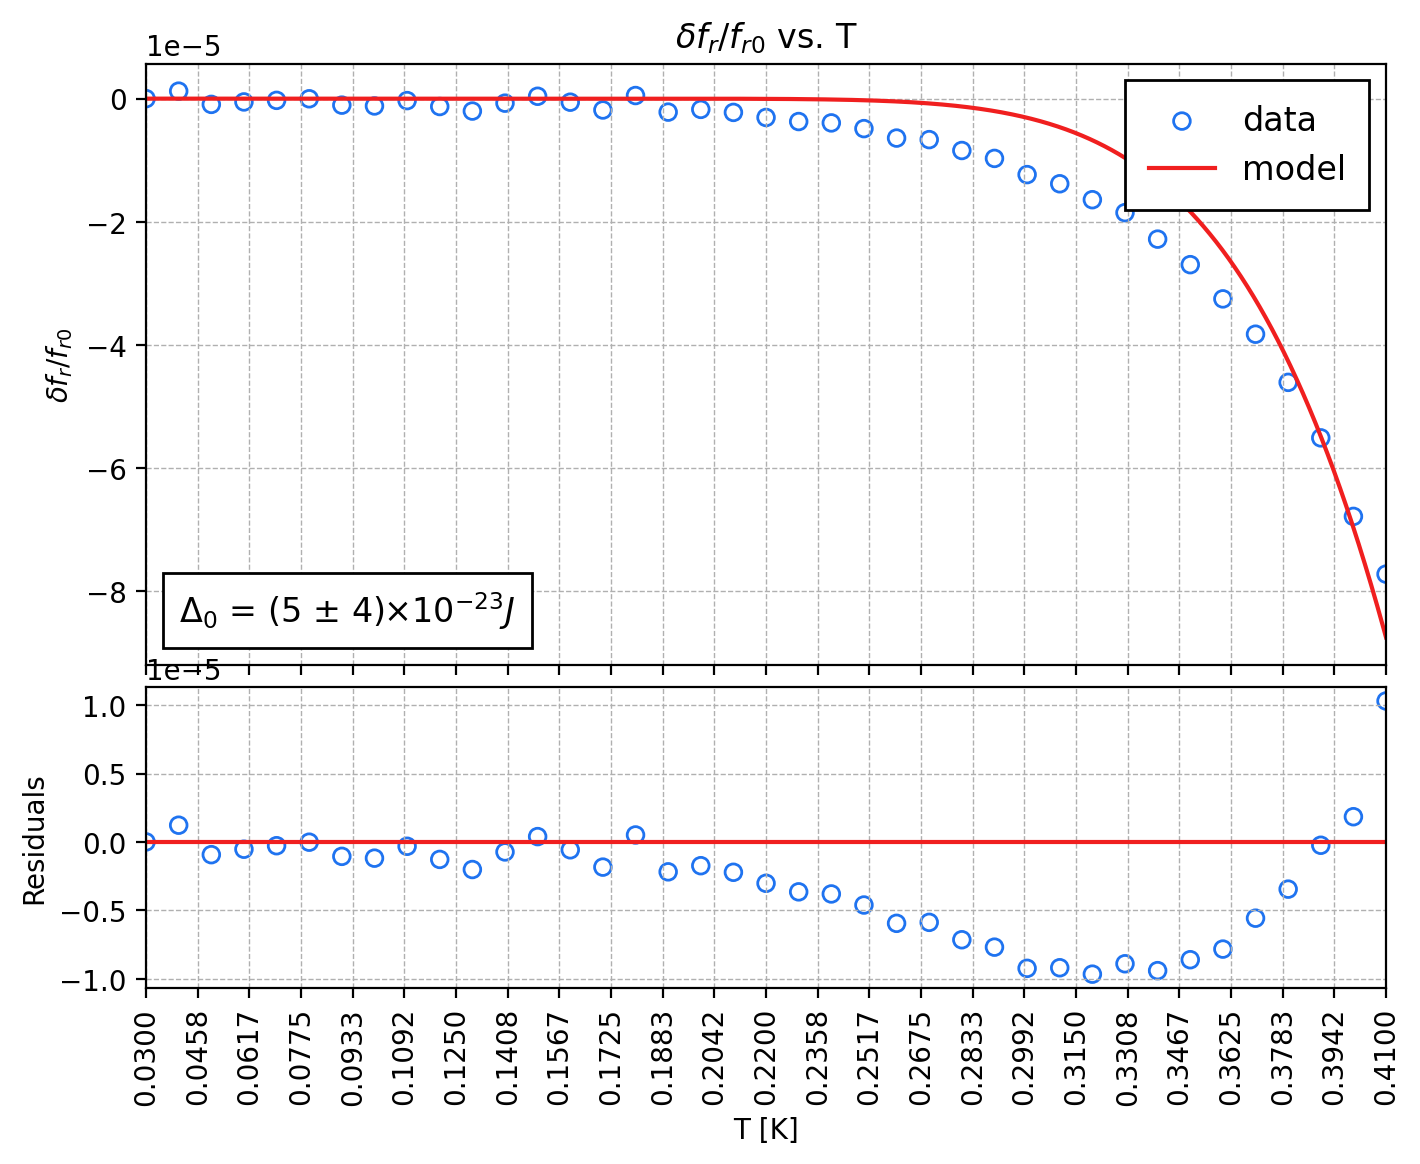
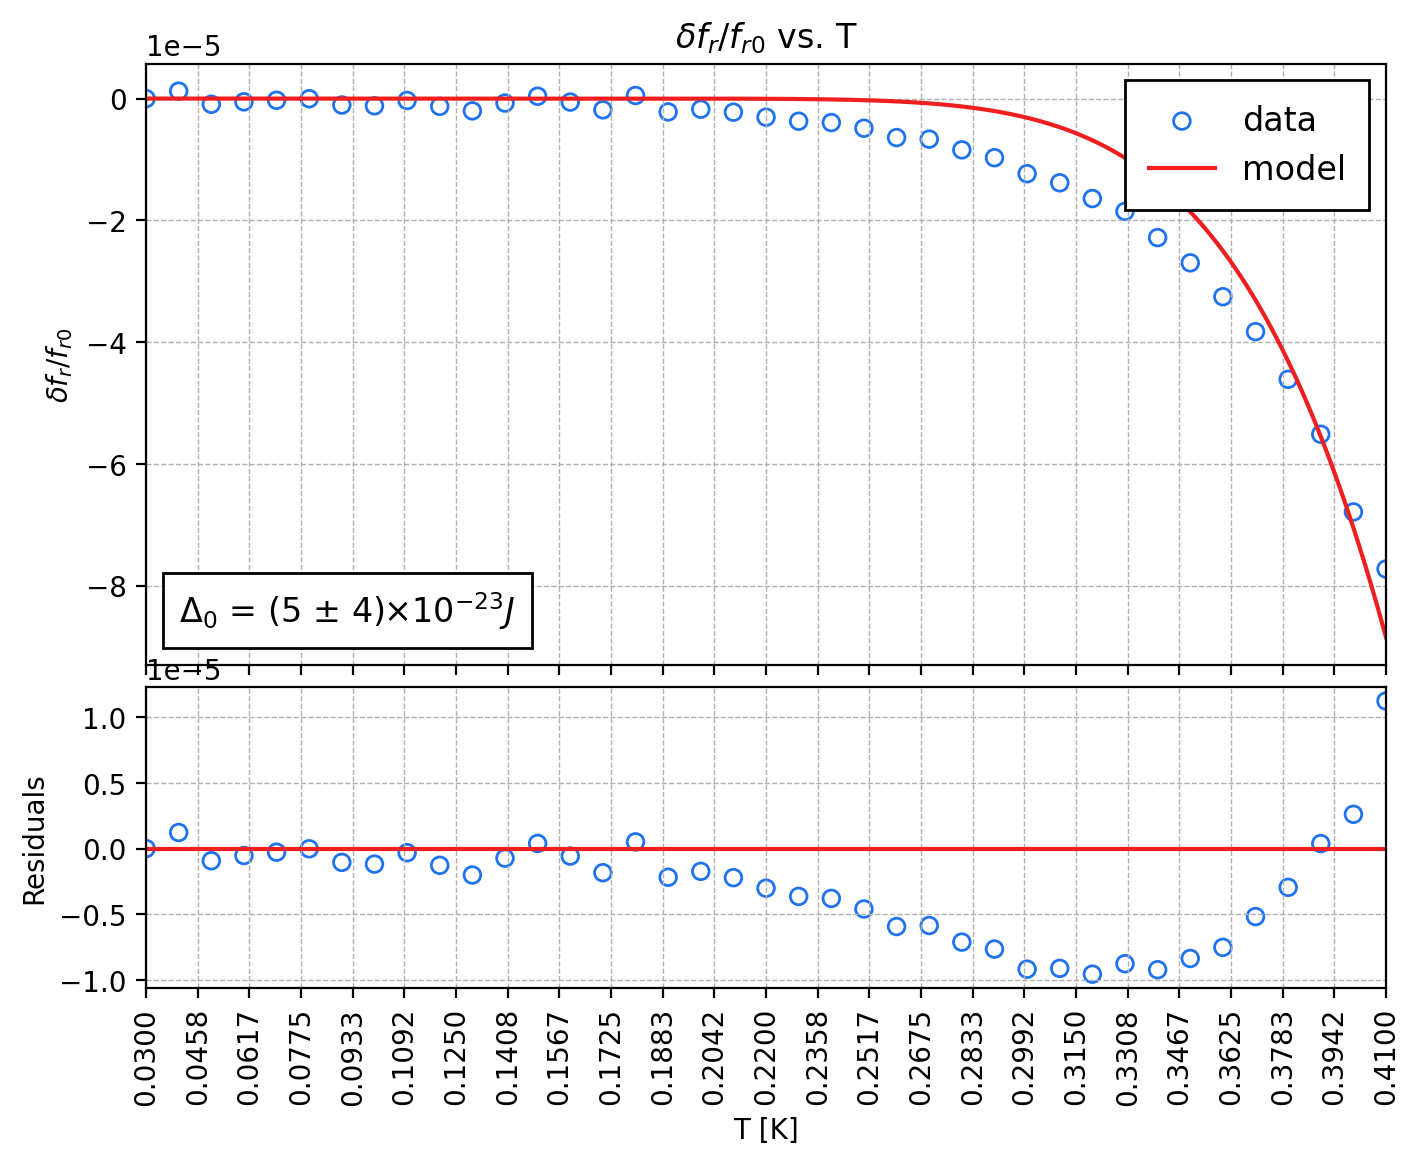
minor changes

diff --git a/3Dqubit/analysis/tangent_loss_vs_temp_fit.py b/3Dqubit/analysis/tangent_loss_vs_temp_fit.py
@@ -120,48 +120,6 @@ for _ in range(0, N+1):
 
 alpha = 0.8 # kinetic inductance / total inductance
 
-f_r0 = fitted_freqs[np.argmin(Ts)]
-
-'''
-# RESONANCE FREQUENCIES
-fitter = Fitter()
-fitter.datax = Ts
-fitter.datay = fitted_freqs
-fitter.sigmay = np.max(fitter.datay) * 0 + 1
-fitter.title = "$f_r$ vs. T"
-fitter.labelx = "T [K]"
-fitter.labely = "$f_r$"
-fitter.model = lambda T, Delta0: model_resonance_freqs(T, Delta0, alpha, f_r0, Ts, fitted_freqs)
-fitter.params = { "Delta0": (0, 0.52e-22, 1e-21) } # 1.5e-22 Joule = 1meV which is the typical Cooper pair energy
-fitter.param_units = { "Delta0": "J" } # Joule
-fitter.param_displayed_names = { "Delta0": "\\Delta_0" } # Joule
-fitter.show_plot = True
-fitter.show_initial_model = True
-fitter.file_name = "..\\plots\\res_freqs_vs_temp_fit.png"
-res = fitter.plot_fit()
-'''
-
-# NORMALIZED RESONANCE FREQUENCIES
-fitter = Fitter()
-fitter.datax = Ts
-fitter.datay = (fitted_freqs - f_r0) / f_r0 
-fitter.sigmay = np.max(fitter.datay) * 0 + 0.001
-fitter.title = "$\\delta f_r/f_{r0}$ vs. T"
-fitter.labelx = "T [K]"
-fitter.labely = "$\\delta f_r/f_{r0}$"
-fitter.model = lambda T, Delta0: model_normalized_resonance_freqs(T, Delta0, alpha, f_r0, Ts, fitted_freqs)
-fitter.params = { "Delta0": (0, 0.52e-22, 1e-21) } # 1.5e-22 Joule = 1meV which is the typical Cooper pair energy
-fitter.param_units = { "Delta0": "J" } # Joule
-fitter.param_displayed_names = { "Delta0": "\\Delta_0" } # Joule
-fitter.show_plot = True
-fitter.show_initial_model = False
-fitter.show_model = True
-fitter.show_errorbars = False
-fitter.show_pvalue = False
-fitter.file_name = "..\\plots\\normalized_res_freqs_vs_temp_fit.png"
-res = fitter.plot_fit()
-
-'''
 # TANGENT LOSS
 fitted_Qis = (fitted_Qls * fitted_Qcs) / (fitted_Qcs - fitted_Qls)
 Q_i0 = fitted_Qis[np.argmin(Ts)]
@@ -177,7 +135,48 @@ fitter.model = lambda T, Delta0: model_tangent_loss(T, Delta0, alpha, Q_i0, Ts, 
 fitter.params = { "Delta0": (0, 1.5e-22, 1e-21) } # 1.5e-22 Joule = 1meV which is the typical Cooper pair energy
 fitter.param_units = { "Delta0": "J" } # Joule
 fitter.param_displayed_names = { "Delta0": "\\Delta_0" } # Joule
-fitter.show_plot = True
+fitter.show_plot = False
 fitter.file_name = "..\\plots\\tangent_loss_vs_temp_fit.png"
+res = fitter.plot_fit()
+
+# NORMALIZED RESONANCE FREQUENCIES
+f_r0 = fitted_freqs[np.argmin(Ts)]
+
+fitter = Fitter()
+fitter.datax = Ts
+fitter.datay = (fitted_freqs - f_r0) / f_r0 
+fitter.sigmay = np.max(fitter.datay) * 0 + 0.001
+fitter.title = "$\\delta f_r/f_{r0}$ vs. T"
+fitter.labelx = "T [K]"
+fitter.labely = "$\\delta f_r/f_{r0}$"
+fitter.model = lambda T, Delta0: model_normalized_resonance_freqs(T, Delta0, alpha, f_r0, Ts, fitted_freqs)
+fitter.params = { "Delta0": (0, res["params"]["Delta0"]["value"], 1e-21) }
+fitter.param_units = { "Delta0": "J" } # Joule
+fitter.param_displayed_names = { "Delta0": "\\Delta_0" } # Joule
+fitter.show_plot = True
+fitter.show_initial_model = False
+fitter.show_model = True
+fitter.show_errorbars = False
+fitter.show_pvalue = False
+fitter.file_name = "..\\plots\\normalized_res_freqs_vs_temp_fit.png"
+fitter.plot_fit()
+
+
+'''
+# RESONANCE FREQUENCIES
+fitter = Fitter()
+fitter.datax = Ts
+fitter.datay = fitted_freqs
+fitter.sigmay = np.max(fitter.datay) * 0 + 1
+fitter.title = "$f_r$ vs. T"
+fitter.labelx = "T [K]"
+fitter.labely = "$f_r$"
+fitter.model = lambda T, Delta0: model_resonance_freqs(T, Delta0, alpha, f_r0, Ts, fitted_freqs)
+fitter.params = { "Delta0": (0, res["params"]["Delta0"]["value"], 1e-21) }
+fitter.param_units = { "Delta0": "J" } # Joule
+fitter.param_displayed_names = { "Delta0": "\\Delta_0" } # Joule
+fitter.show_plot = True
+fitter.show_initial_model = True
+fitter.file_name = "..\\plots\\res_freqs_vs_temp_fit.png"
 res = fitter.plot_fit()
 '''

diff --git a/3Dqubit/classes/Fitter.py b/3Dqubit/classes/Fitter.py
@@ -210,7 +210,8 @@ class Fitter():
         second.grid(linestyle='--', linewidth=0.5)
 
         if self.file_name != "": plt.savefig(self.file_name, bbox_inches='tight', dpi=200)
-        if self.show_plot: plt.show()
+        if self.show_plot: plt.show() 
+        else: plt.close()
 
         res["plot"] = plt
         return res

diff --git a/3Dqubit/README.md b/3Dqubit/README.md
@@ -57,7 +57,3 @@ git push
 - `LO.py`:
     - turn_on() and turn_off() seem to do nothing
     - check the existence of the COM, if it doesn't return list of available COMs
-- a -> polynomial in f (up to third order)
-- `Fitter.py`:
-    - if xscale is not linear errobars in the residuals aren't uniformely distributed
-    - plot data as scatter plot not as line
